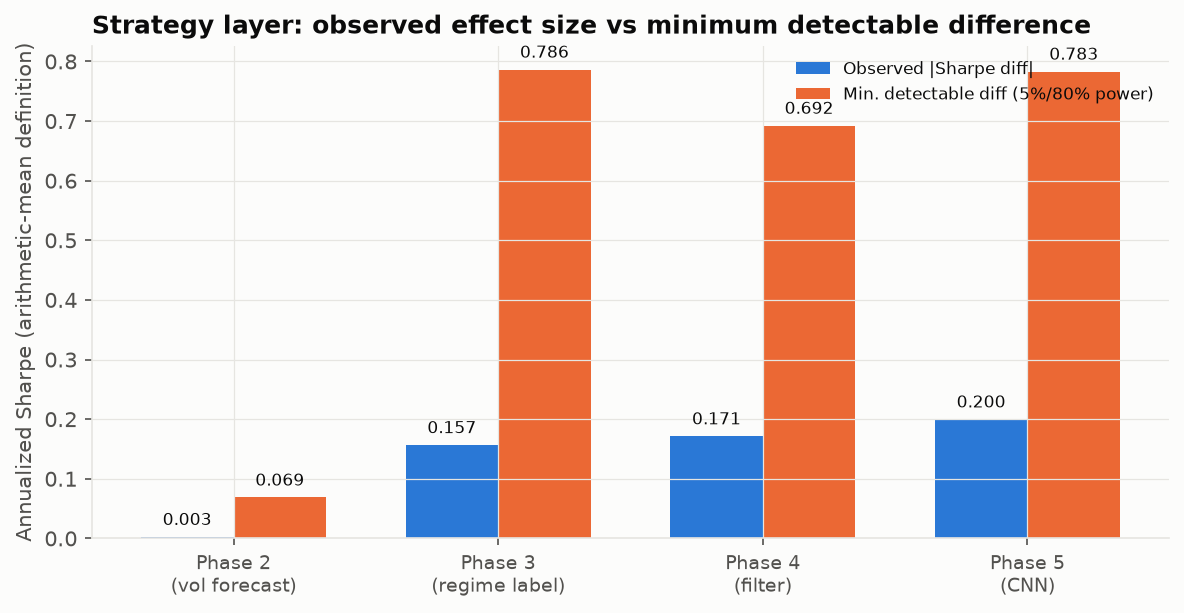
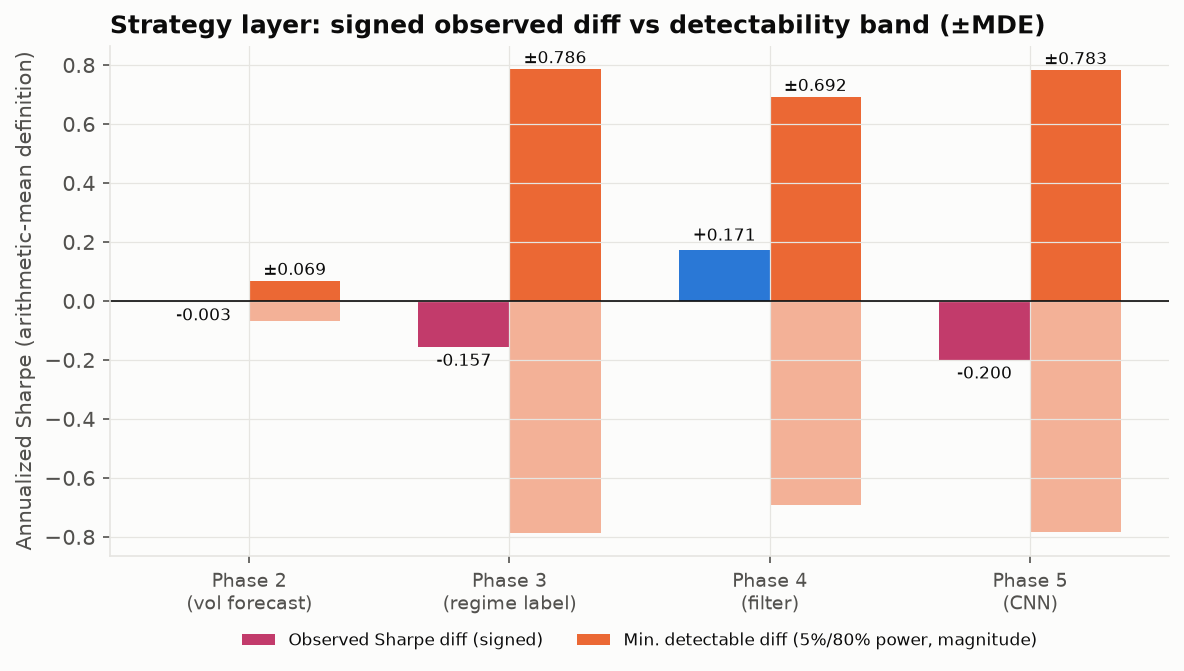
Week 14 Part 2: preserve sign in the diff-vs-MDE chart, split interpretation into two kinds
The chart plotted abs(observed diff), which hid that phase 3 and phase 5's
filters make things WORSE (negative), not just "not significantly
better." The underlying table already had the correct signed values
(-0.1566, -0.1997, etc.) - only the chart's bars were collapsed to
magnitude. Fixed the chart to plot the signed observed diff and show
+/-MDE as a detectability band around zero, so direction and
detectability read together.

Also split the table's reading into two kinds of "not detected," per
user guidance: phase 2's MDE (0.069) is small because different
volatility forecasts feed the same vol-target position rule and produce
highly correlated position series, so the paired comparison has low
variance and real statistical power - its observed diff (0.003) sitting
below that small MDE is a well-powered "no real difference," not an
inconclusive result. Phases 3-5's MDE (~0.7-0.8) reflects low power
given how much of the effect is buried in the strategy's overall return
noise - these are genuinely "can't detect," and reporting them as if
they were the same kind of null as phase 2 would overstate what the data
can support. Added an interpretation column to the table reflecting this
split; reports/final_report.md's discussion section will carry the same
two-way framing.

Changed region(s): [[0.0, 0.0, 0.9688, 0.9918], [0.0312, 0.8679, 0.0625, 0.8989]]

diff --git a/qqq-ml/scripts/make_week14_why_hard.py b/qqq-ml/scripts/make_week14_why_hard.py
@@ -94,25 +94,35 @@ def main() -> None:
                 "strat_p": p5["strategy_layer"]["p_value"]})
 
     # ---------------------------------------------------------------
-    # Chart: |observed diff| vs MDE, strategy layer, per phase
+    # Chart: SIGNED observed diff vs MDE (magnitude, unsigned by
+    # construction), strategy layer, per phase. Sign matters here - phase 3
+    # and phase 5's filters make things WORSE (negative), not just "not
+    # significantly better" - collapsing to abs() would hide that.
     # ---------------------------------------------------------------
     phases = [r["phase"] for r in rows]
-    obs = [abs(r["strat_diff"]) for r in rows]
+    obs = [r["strat_diff"] for r in rows]
     mde = [r["mde"] for r in rows]
     x = np.arange(len(phases))
     width = 0.35
 
-    fig, ax = plt.subplots(figsize=(8, 4.2))
-    ax.bar(x - width / 2, obs, width, label="Observed |Sharpe diff|", color=BLUE)
-    ax.bar(x + width / 2, mde, width, label="Min. detectable diff (5%/80% power)", color=ORANGE)
+    fig, ax = plt.subplots(figsize=(8, 4.6))
+    obs_colors = [BLUE if o >= 0 else "#c23b6b" for o in obs]
+    ax.bar(x - width / 2, obs, width, label="Observed Sharpe diff (signed)", color=obs_colors)
+    ax.bar(x + width / 2, mde, width, label="Min. detectable diff (5%/80% power, magnitude)",
+          color=ORANGE)
+    ax.bar(x + width / 2, [-m for m in mde], width, color=ORANGE, alpha=0.5)
+    ax.axhline(0, color=INK, linewidth=0.8)
     for i, (o, m) in enumerate(zip(obs, mde)):
-        ax.text(i - width / 2, o + 0.02, f"{o:.3f}", ha="center", fontsize=8, color=INK)
-        ax.text(i + width / 2, m + 0.02, f"{m:.3f}", ha="center", fontsize=8, color=INK)
+        va = "bottom" if o >= 0 else "top"
+        off = 0.02 if o >= 0 else -0.02
+        ax.text(i - width / 2, o + off, f"{o:+.3f}", ha="center", va=va, fontsize=8, color=INK)
+        ax.text(i + width / 2, m + 0.02, f"±{m:.3f}", ha="center", fontsize=8, color=INK)
     ax.set_xticks(x)
     ax.set_xticklabels([PHASE_LABEL[p] for p in phases], fontsize=9)
     ax.set_ylabel("Annualized Sharpe (arithmetic-mean definition)")
-    ax.set_title("Strategy layer: observed effect size vs minimum detectable difference")
-    ax.legend(frameon=False, fontsize=8, loc="upper right")
+    ax.set_title("Strategy layer: signed observed diff vs detectability band (±MDE)")
+    ax.legend(frameon=False, fontsize=8, loc="upper center",
+             bbox_to_anchor=(0.5, -0.12), ncol=2)
     fig.tight_layout()
     FIG_DIR.mkdir(parents=True, exist_ok=True)
     fig_path = FIG_DIR / "w14_diff_vs_mde.png"
@@ -130,19 +140,36 @@ def main() -> None:
             "MDE同一定義,見results_summary.json的_cross_check_notes),不是各週報告"
             "顯示的複利版本。\n",
             "## 一、預測層改善 vs 策略層觀察差 vs 最小可偵測差\n",
-            "| 階段 | 預測層指標 | 預測層顯著性 | 策略層觀察差(算術Sharpe) | 策略層p值 | "
-            "最小可偵測差(MDE) | 觀察差是否達MDE |",
-            "|---|---|---|---|---|---|---|"]
+            "**判讀分兩類,不是同一種「測不到」**:",
+            "- **階段二**:MDE只有0.069,遠小於其他三階段——不同波動預測模型接同一套"
+            "vol_target部位規則後,產生的部位序列高度相關(配對比較的變異數小),檢定力本身",
+            "  夠高。觀察差0.003遠低於這個小的MDE門檻,這是**有檢定力支持的『沒有實質差異』**,",
+            "  不是測不到,是真的量不出差別。",
+            "- **階段三到五**:MDE落在0.7–0.8這個大得多的量級——樣本量(交易日數)沒有本質",
+            "  改變,但效果本身(篩選/狀態/CNN的貢獻)混在整體策略報酬的雜訊裡,檢定力不足。",
+            "  這三個階段是**偵測不到**,不是**偵測到沒有差異**——如果背後真有一個中等大小的",
+            "  效果,現有樣本量本來就看不出來,不能倒過來說『證明沒有效果』。\n",
+            "| 階段 | 預測層指標 | 預測層顯著性 | 策略層觀察差(算術Sharpe,保留正負號) | "
+            "策略層p值 | 最小可偵測差(MDE) | 達MDE? | 判讀 |",
+            "|---|---|---|---|---|---|---|---|"]
+    interp = {
+        "phase2": "有檢定力支持的沒有實質差異(MDE小,觀察差遠低於MDE)",
+        "phase3": "偵測不到(MDE大,檢定力不足;不代表沒有效果)",
+        "phase4": "偵測不到(MDE大,檢定力不足;不代表沒有效果)",
+        "phase5": "偵測不到(MDE大,檢定力不足;不代表沒有效果)",
+    }
     for r in rows:
         detectable = "是" if abs(r["strat_diff"]) >= r["mde"] else "否"
         lines.append(f"| {r['phase']} | {r['pred_metric']} | {r['pred_sig']} | "
-                     f"{r['strat_diff']:+.4f} | {r['strat_p']:.4f} | {r['mde']:.4f} | {detectable} |")
+                     f"{r['strat_diff']:+.4f} | {r['strat_p']:.4f} | {r['mde']:.4f} | "
+                     f"{detectable} | {interp[r['phase']]} |")
 
     lines += ["",
              "**型態很一致**:四個階段裡,預測層(QLIKE/AUC/外部驗證t值)常常有統計上站得住腳"
              "的訊號或差異,但策略層的觀察差全部遠小於5%顯著/80%檢定力下的最小可偵測差"
-             "(四階段都是「否」)——不是「這次剛好沒測到」,是現有樣本量在這個效果量級下,"
-             "本來就沒有機會可靠偵測到。",
+             "(四階段都是「否」)——但如上表「判讀」欄所分:階段二是量過、量出來真的很小"
+             "(有檢定力支持的沒有實質差異);階段三到五是根本量不到(檢定力不足),兩者結論"
+             "不能混為一談。",
              "",
              f"**第10週的反推**(`reports/week10_robustness.md`第五節):要用現有的資料頻率"
              f"偵測到0.2的夏普差,logistic模型需要約104年的OOS資料——這是全篇「為什麼難」"

diff --git a/qqq-ml/reports/week14_why_hard.md b/qqq-ml/reports/week14_why_hard.md
@@ -4,14 +4,23 @@
 
 ## 一、預測層改善 vs 策略層觀察差 vs 最小可偵測差
 
-| 階段 | 預測層指標 | 預測層顯著性 | 策略層觀察差(算術Sharpe) | 策略層p值 | 最小可偵測差(MDE) | 觀察差是否達MDE |
-|---|---|---|---|---|---|---|
-| phase2 | QLIKE差(HAR+殘差XGB−HAR) | DM p=0.00045(顯著改善) | -0.0026 | 0.9173 | 0.0686 | 否 |
-| phase3 | HMM state1/2 vs state0已實現波動差(t值) | t=9.93/12.20,p≈0(狀態標籤本身顯著,不是雜訊) | -0.1566 | 0.5700 | 0.7864 | 否 |
-| phase4 | AUC(logistic篩選ORB) | 中等,無對照基準模型可算DM/AUC差 | +0.1714 | 0.4845 | 0.6923 | 否 |
-| phase5 | AUC差(CNN−手工特徵logistic) | block bootstrap p=0.0008(顯著更差) | -0.1997 | 0.4700 | 0.7830 | 否 |
+**判讀分兩類,不是同一種「測不到」**:
+- **階段二**:MDE只有0.069,遠小於其他三階段——不同波動預測模型接同一套vol_target部位規則後,產生的部位序列高度相關(配對比較的變異數小),檢定力本身
+  夠高。觀察差0.003遠低於這個小的MDE門檻,這是**有檢定力支持的『沒有實質差異』**,
+  不是測不到,是真的量不出差別。
+- **階段三到五**:MDE落在0.7–0.8這個大得多的量級——樣本量(交易日數)沒有本質
+  改變,但效果本身(篩選/狀態/CNN的貢獻)混在整體策略報酬的雜訊裡,檢定力不足。
+  這三個階段是**偵測不到**,不是**偵測到沒有差異**——如果背後真有一個中等大小的
+  效果,現有樣本量本來就看不出來,不能倒過來說『證明沒有效果』。
 
-**型態很一致**:四個階段裡,預測層(QLIKE/AUC/外部驗證t值)常常有統計上站得住腳的訊號或差異,但策略層的觀察差全部遠小於5%顯著/80%檢定力下的最小可偵測差(四階段都是「否」)——不是「這次剛好沒測到」,是現有樣本量在這個效果量級下,本來就沒有機會可靠偵測到。
+| 階段 | 預測層指標 | 預測層顯著性 | 策略層觀察差(算術Sharpe,保留正負號) | 策略層p值 | 最小可偵測差(MDE) | 達MDE? | 判讀 |
+|---|---|---|---|---|---|---|---|
+| phase2 | QLIKE差(HAR+殘差XGB−HAR) | DM p=0.00045(顯著改善) | -0.0026 | 0.9173 | 0.0686 | 否 | 有檢定力支持的沒有實質差異(MDE小,觀察差遠低於MDE) |
+| phase3 | HMM state1/2 vs state0已實現波動差(t值) | t=9.93/12.20,p≈0(狀態標籤本身顯著,不是雜訊) | -0.1566 | 0.5700 | 0.7864 | 否 | 偵測不到(MDE大,檢定力不足;不代表沒有效果) |
+| phase4 | AUC(logistic篩選ORB) | 中等,無對照基準模型可算DM/AUC差 | +0.1714 | 0.4845 | 0.6923 | 否 | 偵測不到(MDE大,檢定力不足;不代表沒有效果) |
+| phase5 | AUC差(CNN−手工特徵logistic) | block bootstrap p=0.0008(顯著更差) | -0.1997 | 0.4700 | 0.7830 | 否 | 偵測不到(MDE大,檢定力不足;不代表沒有效果) |
+
+**型態很一致**:四個階段裡,預測層(QLIKE/AUC/外部驗證t值)常常有統計上站得住腳的訊號或差異,但策略層的觀察差全部遠小於5%顯著/80%檢定力下的最小可偵測差(四階段都是「否」)——但如上表「判讀」欄所分:階段二是量過、量出來真的很小(有檢定力支持的沒有實質差異);階段三到五是根本量不到(檢定力不足),兩者結論不能混為一談。
 
 **第10週的反推**(`reports/week10_robustness.md`第五節):要用現有的資料頻率偵測到0.2的夏普差,logistic模型需要約104年的OOS資料——這是全篇「為什麼難」最直接的量化:不是換模型或多等一兩年能解決的量級落差。
 
